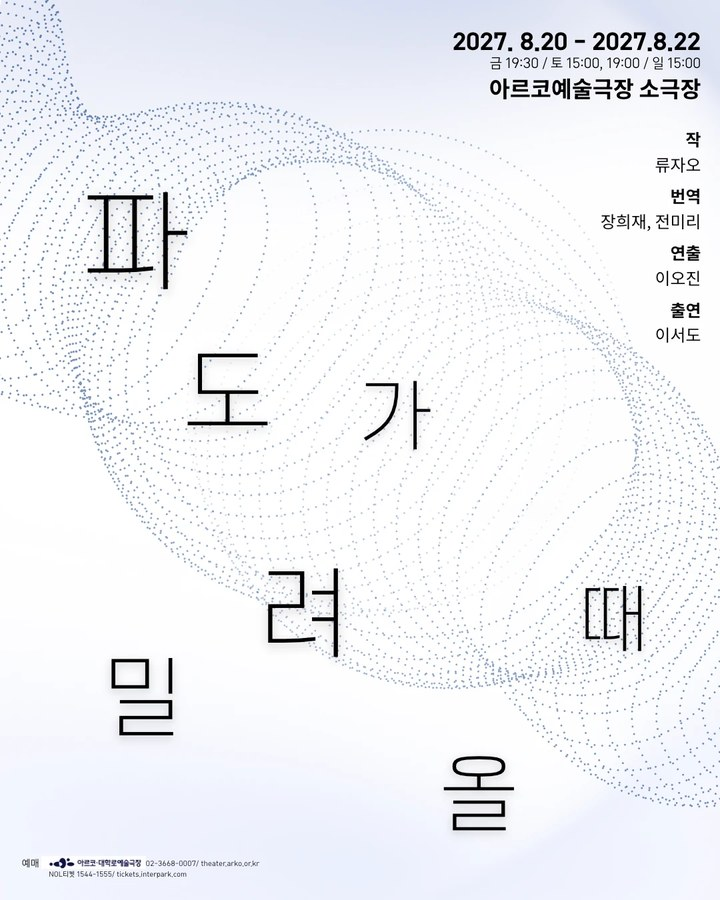
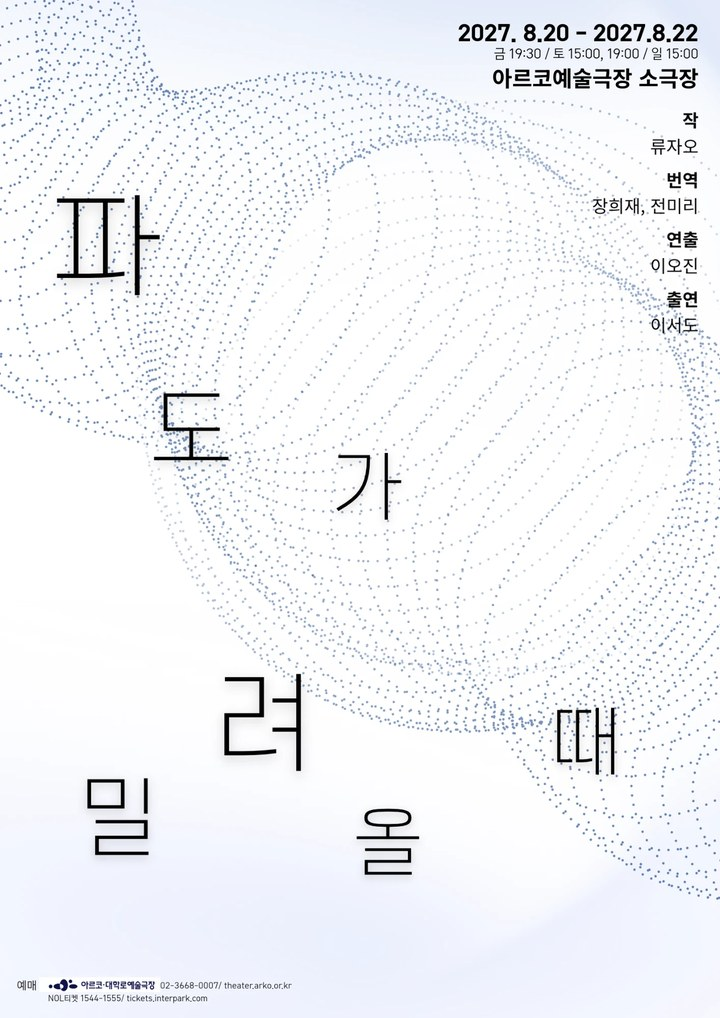
Swap in the A-size poster and update the copyright year to 2027
Claude-Session: https://claude.ai/code/session_01FDpaqMpK7X2ngCoX93T8wE

diff --git a/index.html b/index.html
@@ -129,7 +129,7 @@ h1 { font-family: var(--font-round); margin: 6.125rem 0 0; padding-left: 2.375re
   .story { min-height: 0; padding: 8.6875rem 0 0; }
   .info { margin-top: 12rem; }
 }
-.info img { display: block; width: 14.75rem; height: 18.4375rem; object-fit: cover; }
+.info img { display: block; width: 14.75rem; height: 20.875rem; object-fit: cover; }
 .info .when { font-family: var(--font-round); display: flex; flex-direction: column; margin: .375rem 0 0; padding-bottom: .1rem; color: #2c2b27; font-weight: 300; font-size: 1.4375rem; line-height: 1.8rem; letter-spacing: -.06em; white-space: nowrap; }
 .info a { align-self: flex-start; margin-top: 5.375rem; color: inherit; text-decoration: none; border-bottom: 1px solid transparent; transition: border-color .2s; }
 .info a:hover, .info a:focus-visible { border-bottom-color: currentColor; outline: none; }
@@ -207,7 +207,7 @@ footer .copy-right { margin: 0; font-size: .75rem; line-height: 1rem; color: var
     </div>
     </div>
     <div class="info">
-      <img src="poster.jpg?v=2" width="720" height="900" alt="연극 〈파도가 밀려올 때〉 포스터">
+      <img src="poster.jpg?v=3" width="720" height="1018" alt="연극 〈파도가 밀려올 때〉 포스터">
       <p class="when">
         <span class="line">2027. 8.20 - 2027.8.22</span>
         <span class="line">금 19:30 / 토 15:00, 19:00 / 일 15:00</span>
@@ -221,7 +221,7 @@ footer .copy-right { margin: 0; font-size: .75rem; line-height: 1rem; color: var
 <footer id="contact">
   <div class="frame">
     <p class="contact-line"><strong>CONTACT</strong><span class="sep" aria-hidden="true">|</span>Email : <a href="mailto:wavesrollin@gmail.com">wavesrollin@gmail.com</a><span class="sep" aria-hidden="true">|</span>Tel : <a href="tel:02-1234-5678">02-1234-5678</a><span class="sep" aria-hidden="true">|</span>Instagram : <a href="https://www.instagram.com/theater_wavesrollin/" target="_blank" rel="noopener">@theater_wavesrollin</a></p>
-    <p class="copy-right">© 2026 파도가 밀려올 때. All rights reserved.</p>
+    <p class="copy-right">© 2027 파도가 밀려올 때. All rights reserved.</p>
   </div>
 </footer>
 
